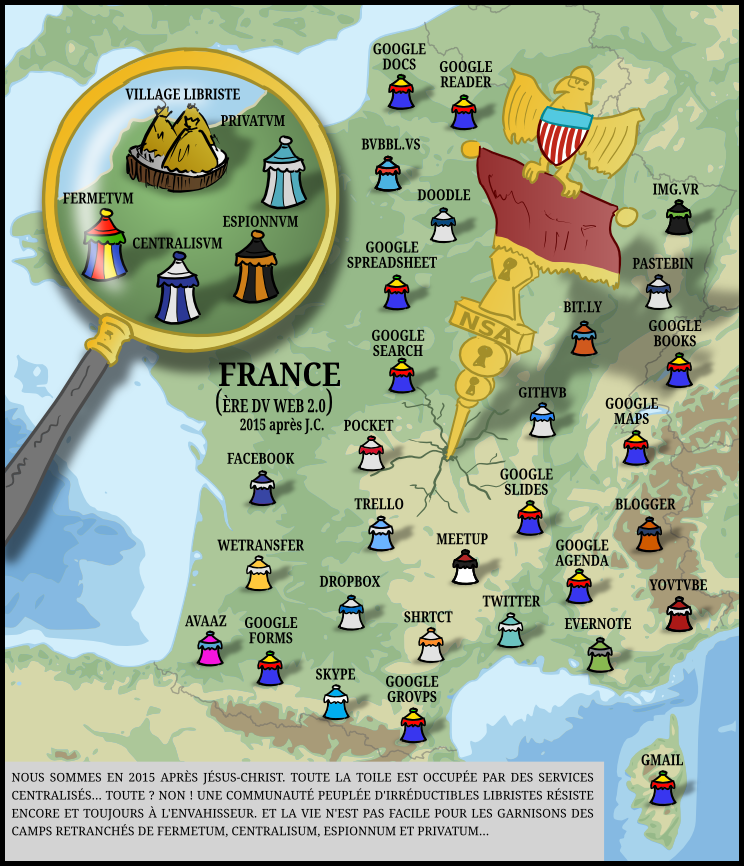
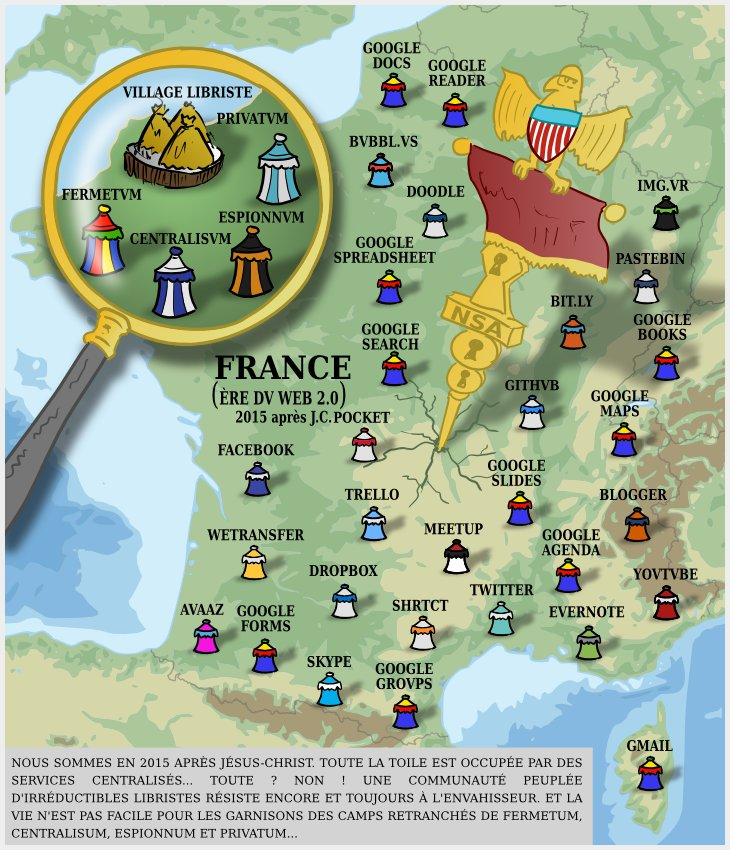
Fix canvas mal redimensionné sur Chrome et chargement plus rapide de la carte

diff --git a/js/jquery.maphilight.js b/js/jquery.maphilight.js
@@ -17,7 +17,7 @@
 		$.fn.maphilight = function() { return this; };
 		return;
 	}
-	
+
 	if(has_canvas) {
 		hex_to_decimal = function(hex) {
 			return Math.max(0, Math.min(parseInt(hex, 16), 255));
@@ -30,10 +30,11 @@
 			c.getContext("2d").clearRect(0, 0, c.width, c.height);
 			return c;
 		};
+
 		var draw_shape = function(context, shape, coords, x_shift, y_shift) {
 			x_shift = x_shift || 0;
 			y_shift = y_shift || 0;
-			
+
 			context.beginPath();
 			if(shape == 'rect') {
 				// x, y, width, height
@@ -51,9 +52,9 @@
 		}
 		add_shape_to = function(canvas, shape, coords, options, name) {
 			var i, context = canvas.getContext('2d');
-			
+
 			// Because I don't want to worry about setting things back to a base state
-			
+
 			// Shadow has to happen first, since it's on the bottom, and it does some clip /
 			// fill operations which would interfere with what comes next.
 			if(options.shadow) {
@@ -63,19 +64,19 @@
 					draw_shape(context, shape, coords);
 					context.clip();
 				}
-				
+
 				// Redraw the shape shifted off the canvas massively so we can cast a shadow
 				// onto the canvas without having to worry about the stroke or fill (which
 				// cannot have 0 opacity or width, since they're what cast the shadow).
 				var x_shift = canvas.width * 100;
 				var y_shift = canvas.height * 100;
 				draw_shape(context, shape, coords, x_shift, y_shift);
-				
+
 				context.shadowOffsetX = options.shadowX - x_shift;
 				context.shadowOffsetY = options.shadowY - y_shift;
 				context.shadowBlur = options.shadowRadius;
 				context.shadowColor = css3color(options.shadowColor, options.shadowOpacity);
-				
+
 				// Now, work out where to cast the shadow from! It looks better if it's cast
 				// from a fill when it's an outside shadow or a stroke when it's an interior
 				// shadow. Allow the user to override this if they need to.
@@ -95,7 +96,7 @@
 					context.fill();
 				}
 				context.restore();
-				
+
 				// and now we clean up
 				if(options.shadowPosition == "outside") {
 					context.save();
@@ -107,11 +108,11 @@
 					context.restore();
 				}
 			}
-			
+
 			context.save();
-			
+
 			draw_shape(context, shape, coords);
-			
+
 			// fill has to come after shadow, otherwise the shadow will be drawn over the fill,
 			// which mostly looks weird when the shadow has a high opacity
 			if(options.fill) {
@@ -125,9 +126,9 @@
 				context.lineWidth = options.strokeWidth;
 				context.stroke();
 			}
-			
+
 			context.restore();
-			
+
 			if(options.fade) {
 				$(canvas).css('opacity', 0).animate({opacity: 1}, 100);
 			}
@@ -156,13 +157,13 @@
 			$(canvas).append(e);
 		};
 		clear_canvas = function(canvas) {
-			// jquery1.8 + ie7 
+			// jquery1.8 + ie7
 			var $html = $("<div>" + canvas.innerHTML + "</div>");
 			$html.children('[name=highlighted]').remove();
 			canvas.innerHTML = $html.html();
 		};
 	}
-	
+
 	shape_from_area = function(area) {
 		var i, coords = area.getAttribute('coords').split(',');
 		for (i=0; i < coords.length; i++) { coords[i] = parseFloat(coords[i]); }
@@ -173,7 +174,7 @@
 		var $area = $(area);
 		return $.extend({}, options, $.metadata ? $area.metadata() : false, $area.data('maphilight'));
 	};
-	
+
 	is_image_loaded = function(img) {
 		if(!img.complete) { return false; } // IE
 		if(typeof img.naturalWidth != "undefined" && img.naturalWidth === 0) { return false; } // Others
@@ -187,11 +188,11 @@
 		padding: 0,
 		border: 0
 	};
-	
+
 	var ie_hax_done = false;
 	$.fn.maphilight = function(opts) {
 		opts = $.extend({}, $.fn.maphilight.defaults, opts);
-		
+
 		if(!has_canvas && !ie_hax_done) {
 			$(window).ready(function() {
 				document.namespaces.add("v", "urn:schemas-microsoft-com:vml");
@@ -205,7 +206,7 @@
 			});
 			ie_hax_done = true;
 		}
-		
+
 		return this.each(function() {
 			var img, wrap, options, map, canvas, canvas_always, mouseover, highlighted_shape, usemap;
 			img = $(this);
@@ -261,12 +262,16 @@
 			img.before(wrap).css('opacity', 0).css(canvas_style).remove();
 			if(has_VML) { img.css('filter', 'Alpha(opacity=0)'); }
 			wrap.append(img);
-			
+
 			canvas = create_canvas_for(this);
 			$(canvas).css(canvas_style);
+                        $(canvas).css({
+                                'height':this.height+'px',
+                                'width':this.width+'px'
+                        });
 			canvas.height = this.height;
 			canvas.width = this.width;
-			
+
 			mouseover = function(e) {
 				var shape, area_options;
 				area_options = options_from_area(this, options);
@@ -333,13 +338,13 @@
 					}
 				});
 			});
-			
+
 			$(map).trigger('alwaysOn.maphilight').find('area[coords]')
 				.bind('mouseover.maphilight', mouseover)
 				.bind('mouseout.maphilight', function(e) { clear_canvas(canvas); });
-			
+
 			img.before(canvas); // if we put this after, the mouseover events wouldn't fire.
-			
+
 			img.addClass('maphilighted');
 		});
 	};

diff --git a/js/home.js b/js/home.js
@@ -3,8 +3,15 @@ $(document).ready(function() {
     $('[data-toggle="tooltip"]').tooltip();
 
     // Init map
-    $('#carte').maphilight();
     $('map').imageMapResize();
+    $('#carte').maphilight();
+
+    $('#carte').attr('src', function() {
+        var carte = $(this).attr('src');
+        carte = carte.replace('victoires','animation').replace('png','gif');
+        $('#highlight-wrapper').css('background-image',carte);
+        return carte;
+    });
 
     // Init text
     $('.c-text').hide();

diff --git a/i18n/data.en.php b/i18n/data.en.php
@@ -18,7 +18,7 @@ $l['contact'] = 'https://contact.framasoft.org';
 $l['participer'] = $l['contact'].'/participer';
 
 // Images
-$l['map'] = 'img/carte-animee-en.gif';
+$l['map'] = 'img/Carte2015-victoires-en.png';
 
 // Meta
 $t['meta']['lang']      = 'en';
@@ -320,13 +320,13 @@ $t['medias']['tabssaveas']  = 'To reuse the picture, right click on the image an
 
 $t['medias']['t1']          = 'Maps';
 $t['medias']['t1i1txt']     = 'Map “Before”';
-$t['medias']['t1i1url']     = 'img/Carte2015-romains.png';
+$t['medias']['t1i1url']     = 'img/Carte2015-romains-en.png';
 $t['medias']['t1i1desc']    = 'Map of France invaded by GAFAM services (oct 2014)';
 $t['medias']['t1i2txt']     = 'Map “After”';
-$t['medias']['t1i2url']     = 'img/Carte2015-victoires.png';
+$t['medias']['t1i2url']     = 'img/Carte2015-victoires-en.png';
 $t['medias']['t1i2desc']    = 'Map of France with Framasoft’s alternatives (oct 2015)';
 $t['medias']['t1i3txt']     = 'Animated map';
-$t['medias']['t1i3url']     = 'img/Carte2015-animation.gif';
+$t['medias']['t1i3url']     = 'img/Carte2015-animation-en.gif';
 $t['medias']['t1i3desc']    = 'Animation de la reconquête des services GAFAM (format .gif)';
 
 $t['medias']['t2']          = 'Drawings';

diff --git a/index.php b/index.php
@@ -136,7 +136,8 @@ include('header.php');
                 <div class="col-md-8 map">
                     <h2 class="h3"><?php echo $t['home']['map'] ?></h2>
                     <div class="">
-                        <img src="<?php echo $l['map'] ?>" alt="<?php echo $t['home']['altMap'] ?>" style="width:100%" id="carte" usemap="#cartemap" />
+                        <img src="<?php echo $l['map'] ?>" alt="<?php echo $t['home']['altMap'] ?>" style="width:100%;" id="carte" usemap="#cartemap" />
+
                         <map id="cartemap" name="cartemap">
                             <?php echo $areas; ?>
                         </map>

diff --git a/i18n/data.fr.php b/i18n/data.fr.php
@@ -18,7 +18,7 @@ $l['contact'] = 'https://contact.framasoft.org';
 $l['participer'] = $l['contact'].'/participer';
 
 // Images
-$l['map'] = 'img/carte-animee-fr.gif';
+$l['map'] = 'img/Carte2015-victoires.png';
 
 // Meta
 $t['meta']['lang']      = 'fr';
